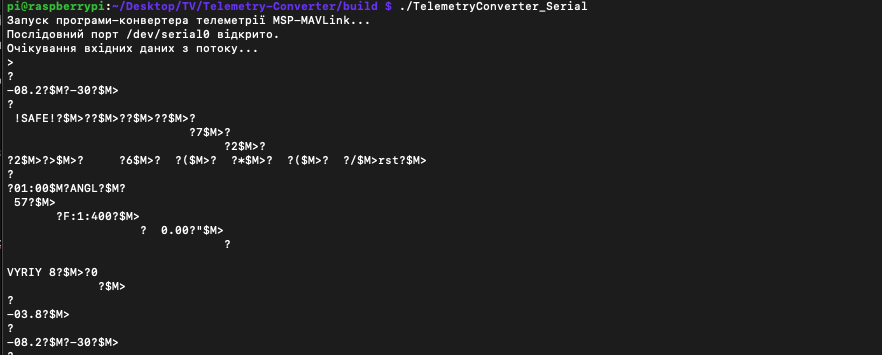
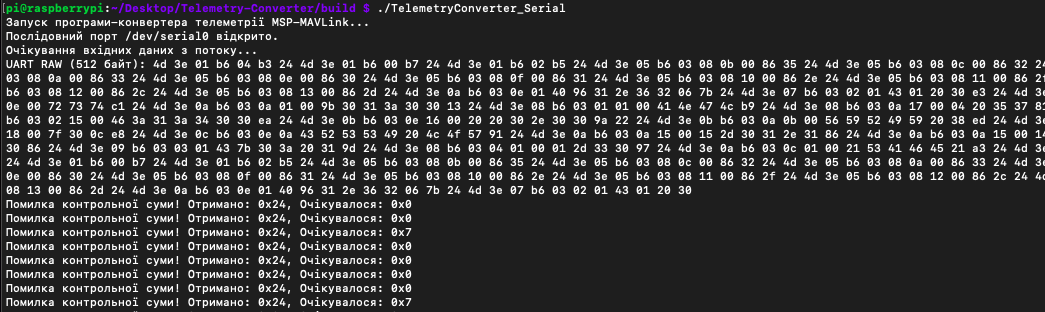
update 1.7

Changed region(s): [[0.0, 0.0, 1.0, 1.0]]

diff --git a/src/msp_converter.cpp b/src/msp_converter.cpp
@@ -215,49 +215,56 @@ void MspParser::parseData(const char* data, size_t length) {
                 break;
 
             case MSP_PAYLOAD:
-    payloadBuffer.push_back(byte);
+                payloadBuffer.push_back(byte);
 
-    // Мінімальна довжина для MSPv2: flags(1) + function(2) + size(2) = 5
-    if (payloadBuffer.size() >= 5) {
-        uint16_t function = static_cast<uint16_t>(payloadBuffer[1]) | (static_cast<uint16_t>(payloadBuffer[2]) << 8);
-        uint16_t size     = static_cast<uint16_t>(payloadBuffer[3]) | (static_cast<uint16_t>(payloadBuffer[4]) << 8);
+                // Мінімальна довжина для MSPv2: flags(1) + function(2) + size(2) = 5
+                if (payloadBuffer.size() >= 5) {
+                    uint16_t function = static_cast<uint16_t>(payloadBuffer[1]) | (static_cast<uint16_t>(payloadBuffer[2]) << 8);
+                    uint16_t size     = static_cast<uint16_t>(payloadBuffer[3]) | (static_cast<uint16_t>(payloadBuffer[4]) << 8);
 
-        // Чекаємо доти, поки прийде весь payload + checksum
-        size_t totalNeeded = 5 + static_cast<size_t>(size) + 1; // header(5) + payload + checksum
-        if (payloadBuffer.size() >= totalNeeded) {
-            // Підготуємо дані для CRC (flags + function(2) + size(2) + payload)
-            // Вони лежать у payloadBuffer[0 .. 4+size-1]
-            uint8_t calc_buf_size = static_cast<uint8_t>(5 + size);
-            // Розрахунок CRC8 по цим байтам
-            uint8_t calc = crc8_dvb_s2(payloadBuffer.data(), 5 + size);
-            uint8_t recv = payloadBuffer[5 + size]; // checksum байт
+                    // Чекаємо доти, поки прийде весь payload + checksum
+                    size_t totalNeeded = 5 + static_cast<size_t>(size) + 1; // header(5) + payload + checksum
+                    if (payloadBuffer.size() >= totalNeeded) {
+                        // Підготуємо дані для CRC (flags + function(2) + size(2) + payload)
+                        // Вони лежать у payloadBuffer[0 .. 4+size-1]
+                        uint8_t calc_buf_size = static_cast<uint8_t>(5 + size);
+                        // Розрахунок CRC8 по цим байтам
+                        uint8_t calc = crc8_dvb_s2(payloadBuffer.data(), 5 + size);
+                        uint8_t recv = payloadBuffer[5 + size]; // checksum байт
 
-            if (recv == calc) {
-                // Витягуємо payload
-                std::vector<uint8_t> mspPayload(
-                    payloadBuffer.begin() + 5,
-                    payloadBuffer.begin() + 5 + size
-                );
+                        if (recv == calc) {
+                            // Витягуємо payload
+                            std::vector<uint8_t> mspPayload(
+                                payloadBuffer.begin() + 5,
+                                payloadBuffer.begin() + 5 + size
+                            );
 
-                std::cout << "Отримано MSPv2-пакет. Function: 0x"
-                          << std::hex << function
-                          << ", Розмір: " << std::dec << size << std::endl;
+                            std::cout << "Отримано MSPv2-пакет. Function: 0x"
+                                    << std::hex << function
+                                    << ", Розмір: " << std::dec << size << std::endl;
 
-                convertMspToMavlink(mspPayload, function);
-            } else {
-                std::cerr << "Помилка контрольної суми MSPv2! Отримано: 0x"
-                          << std::hex << (int)recv
-                          << ", Очікувалося: 0x" << (int)calc << std::endl;
-            }
+                            convertMspToMavlink(mspPayload, function);
+                        } else {
+                            std::cerr << "Помилка контрольної суми MSPv2! Отримано: 0x"
+                                    << std::hex << (int)recv
+                                    << ", Очікувалося: 0x" << (int)calc << std::endl;
 
-            // Очищаємо буфер для наступного пакета.
-            // (parseData продовжує цикл — якщо вхідний буфер містив більше байт,
-            // наступні байти будуть оброблені у подальших ітераціях)
-            payloadBuffer.clear();
-            currentState = MSP_IDLE;
-        }
-    }
-    break;
+                            std::cerr << "HEX frame (5+size+1=" << (5+size+1) << "): ";
+                            for (size_t j = 0; j < payloadBuffer.size(); j++) {
+                                std::cerr << std::hex << std::setw(2) << std::setfill('0')
+                                        << (int)payloadBuffer[j] << " ";
+                            }
+                            std::cerr << std::dec << std::endl;
+                        }
+
+                        // Очищаємо буфер для наступного пакета.
+                        // (parseData продовжує цикл — якщо вхідний буфер містив більше байт,
+                        // наступні байти будуть оброблені у подальших ітераціях)
+                        payloadBuffer.clear();
+                        currentState = MSP_IDLE;
+                    }
+                }
+                break;
 
             case MSP_CHECKSUM:
                 // Цей стан не використовується в MSPv2
